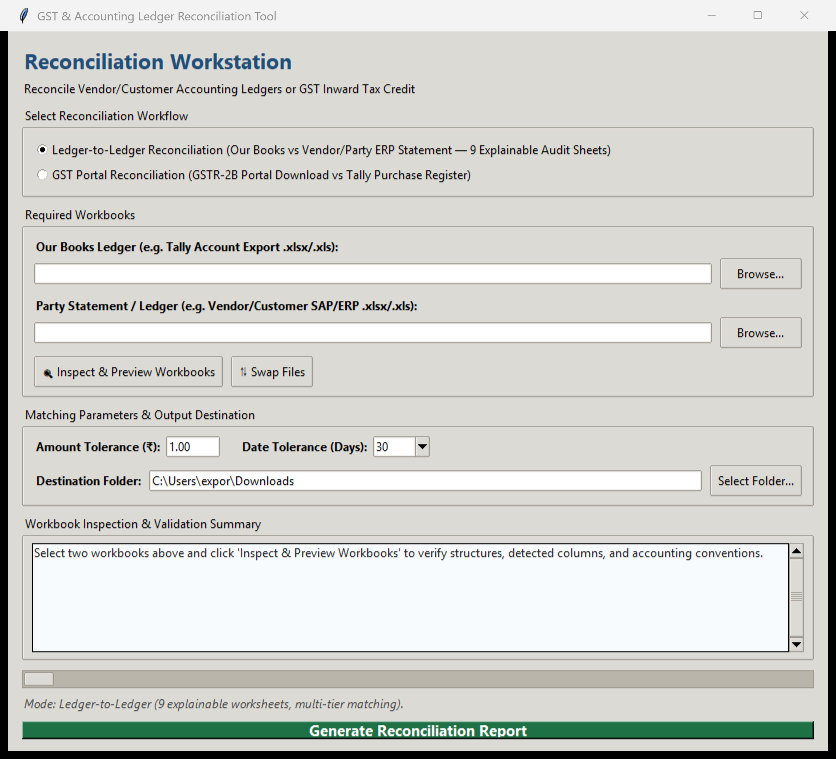
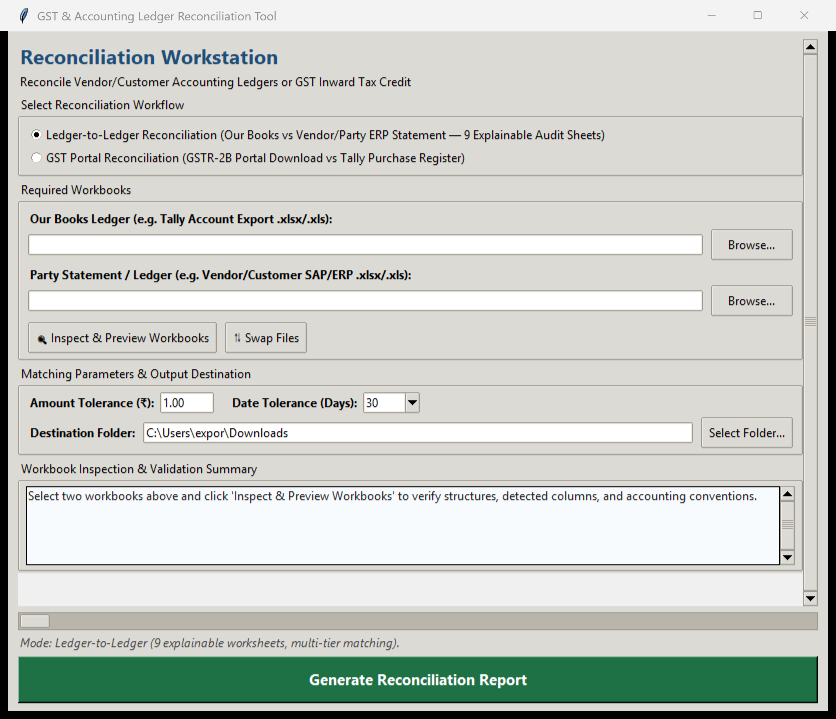
fix: dock action footer for small screens, add SAC launcher scripts and thread-safe queue

diff --git a/src/gst_recon_gui.py b/src/gst_recon_gui.py
@@ -14,6 +14,7 @@ import sys
 import shutil
 import tempfile
 import threading
+import queue
 
 src_dir = os.path.dirname(os.path.abspath(__file__))
 if src_dir not in sys.path:
@@ -84,8 +85,20 @@ class ReconciliationApp:
     def __init__(self, root):
         self.root = root
         self.root.title("GST & Accounting Ledger Reconciliation Tool")
-        self.root.geometry("820x720")
-        self.root.minsize(760, 640)
+
+        # Responsive initial geometry tailored to display dimensions
+        try:
+            sw = self.root.winfo_screenwidth()
+            sh = self.root.winfo_screenheight()
+            init_w = min(840, max(680, sw - 40))
+            init_h = min(700, max(520, sh - 80))
+            x = max(0, (sw - init_w) // 2)
+            y = max(0, (sh - init_h) // 2)
+            self.root.geometry(f"{init_w}x{init_h}+{x}+{y}")
+        except Exception:
+            self.root.geometry("820x660")
+
+        self.root.minsize(680, 480)
 
         # Style configuration
         self.style = ttk.Style()
@@ -102,24 +115,94 @@ class ReconciliationApp:
         self.amount_tolerance = tk.StringVar(value="1.00")
         self.date_tolerance = tk.StringVar(value="30")
         self.is_processing = False
+        self.result_queue = queue.Queue()
 
         self._build_ui()
         self._on_mode_change()
 
     def _build_ui(self):
-        main_frame = ttk.Frame(self.root, padding="14 12 14 12")
+        main_frame = ttk.Frame(self.root, padding="10 8 10 8")
         main_frame.pack(fill=tk.BOTH, expand=True)
+
+        # ---------------------------------------------------------------------
+        # DOCKED ACTION FOOTER (Packed FIRST with side=tk.BOTTOM)
+        # Guarantees the Generate button, progressbar, and status label are ALWAYS
+        # visible and never pushed off-screen on any laptop resolution or scaling.
+        # ---------------------------------------------------------------------
+        action_bar = ttk.Frame(main_frame)
+        action_bar.pack(side=tk.BOTTOM, fill=tk.X, pady=(6, 0))
+
+        self.progressbar = ttk.Progressbar(action_bar, mode="indeterminate")
+        self.progressbar.pack(fill=tk.X, pady=(0, 3))
+
+        self.lbl_status = ttk.Label(
+            action_bar,
+            text="Ready to reconcile.",
+            font=("Segoe UI", 9, "italic"),
+            foreground="#444444"
+        )
+        self.lbl_status.pack(anchor="w", pady=(0, 4))
+
+        self.btn_run = tk.Button(
+            action_bar,
+            text="Generate Reconciliation Report",
+            bg="#1E7145",
+            fg="white",
+            activebackground="#145231",
+            activeforeground="white",
+            font=("Segoe UI", 11, "bold"),
+            relief=tk.RAISED,
+            padx=15,
+            pady=7,
+            cursor="hand2",
+            command=self.generate_report
+        )
+        self.btn_run.pack(fill=tk.X)
+
+        # ---------------------------------------------------------------------
+        # SCROLLABLE CONTENT BODY (Canvas + Vertical Scrollbar)
+        # Allows full scrolling on small laptop displays while action bar is docked.
+        # ---------------------------------------------------------------------
+        canvas_container = ttk.Frame(main_frame)
+        canvas_container.pack(side=tk.TOP, fill=tk.BOTH, expand=True)
+
+        self.canvas = tk.Canvas(canvas_container, highlightthickness=0, borderwidth=0)
+        self.v_scrollbar = ttk.Scrollbar(canvas_container, orient=tk.VERTICAL, command=self.canvas.yview)
+
+        self.content_frame = ttk.Frame(self.canvas)
+        self.content_frame.bind(
+            "<Configure>",
+            lambda e: self.canvas.configure(scrollregion=self.canvas.bbox("all"))
+        )
+
+        self.canvas_window = self.canvas.create_window((0, 0), window=self.content_frame, anchor="nw")
+
+        def _on_canvas_configure(event):
+            self.canvas.itemconfig(self.canvas_window, width=event.width)
+        self.canvas.bind("<Configure>", _on_canvas_configure)
+        self.canvas.configure(yscrollcommand=self.v_scrollbar.set)
+
+        self.canvas.pack(side=tk.LEFT, fill=tk.BOTH, expand=True)
+        self.v_scrollbar.pack(side=tk.RIGHT, fill=tk.Y)
+
+        def _on_mousewheel(event):
+            try:
+                if self.content_frame.winfo_reqheight() > self.canvas.winfo_height():
+                    self.canvas.yview_scroll(int(-1 * (event.delta / 120)), "units")
+            except Exception:
+                pass
+        self.canvas.bind_all("<MouseWheel>", _on_mousewheel)
 
         # ---------------------------------------------------------------------
         # Title Header
         # ---------------------------------------------------------------------
-        header_frame = ttk.Frame(main_frame)
-        header_frame.pack(fill=tk.X, pady=(0, 10))
+        header_frame = ttk.Frame(self.content_frame)
+        header_frame.pack(fill=tk.X, pady=(0, 6))
 
         title_label = ttk.Label(
             header_frame,
             text="Reconciliation Workstation",
-            font=("Segoe UI", 16, "bold"),
+            font=("Segoe UI", 15, "bold"),
             foreground="#1F4E78"
         )
         title_label.pack(anchor="w")
@@ -129,13 +212,13 @@ class ReconciliationApp:
             text="Reconcile Vendor/Customer Accounting Ledgers or GST Inward Tax Credit",
             font=("Segoe UI", 9)
         )
-        subtitle_label.pack(anchor="w", pady=(2, 0))
+        subtitle_label.pack(anchor="w", pady=(1, 0))
 
         # ---------------------------------------------------------------------
         # Mode Selection
         # ---------------------------------------------------------------------
-        mode_box = ttk.LabelFrame(main_frame, text=" Select Reconciliation Workflow ", padding="10 8 10 8")
-        mode_box.pack(fill=tk.X, pady=(0, 10))
+        mode_box = ttk.LabelFrame(self.content_frame, text=" Select Reconciliation Workflow ", padding="8 5 8 5")
+        mode_box.pack(fill=tk.X, pady=(0, 6))
 
         self.r_ledger = ttk.Radiobutton(
             mode_box,
@@ -144,7 +227,7 @@ class ReconciliationApp:
             value="LEDGER",
             command=self._on_mode_change
         )
-        self.r_ledger.pack(anchor="w", pady=2)
+        self.r_ledger.pack(anchor="w", pady=1)
 
         self.r_gstr = ttk.Radiobutton(
             mode_box,
@@ -153,28 +236,28 @@ class ReconciliationApp:
             value="GSTR2B",
             command=self._on_mode_change
         )
-        self.r_gstr.pack(anchor="w", pady=2)
+        self.r_gstr.pack(anchor="w", pady=1)
 
         # ---------------------------------------------------------------------
         # File Inputs Frame
         # ---------------------------------------------------------------------
-        self.input_box = ttk.LabelFrame(main_frame, text=" Required Workbooks ", padding="10 8 10 8")
-        self.input_box.pack(fill=tk.X, pady=(0, 10))
+        self.input_box = ttk.LabelFrame(self.content_frame, text=" Required Workbooks ", padding="8 5 8 5")
+        self.input_box.pack(fill=tk.X, pady=(0, 6))
 
         # File 1
         self.lbl_file1 = ttk.Label(self.input_box, text="File 1:", font=("Segoe UI", 9, "bold"))
-        self.lbl_file1.pack(anchor="w", pady=(1, 2))
+        self.lbl_file1.pack(anchor="w", pady=(1, 1))
         f1_row = ttk.Frame(self.input_box)
-        f1_row.pack(fill=tk.X, pady=(0, 6))
+        f1_row.pack(fill=tk.X, pady=(0, 4))
         self.ent_file1 = ttk.Entry(f1_row, textvariable=self.file1_path)
         self.ent_file1.pack(side=tk.LEFT, fill=tk.X, expand=True, padx=(0, 8))
         ttk.Button(f1_row, text="Browse...", command=self.browse_file1).pack(side=tk.RIGHT)
 
         # File 2
         self.lbl_file2 = ttk.Label(self.input_box, text="File 2:", font=("Segoe UI", 9, "bold"))
-        self.lbl_file2.pack(anchor="w", pady=(1, 2))
+        self.lbl_file2.pack(anchor="w", pady=(1, 1))
         f2_row = ttk.Frame(self.input_box)
-        f2_row.pack(fill=tk.X, pady=(0, 6))
+        f2_row.pack(fill=tk.X, pady=(0, 4))
         self.ent_file2 = ttk.Entry(f2_row, textvariable=self.file2_path)
         self.ent_file2.pack(side=tk.LEFT, fill=tk.X, expand=True, padx=(0, 8))
         ttk.Button(f2_row, text="Browse...", command=self.browse_file2).pack(side=tk.RIGHT)
@@ -190,16 +273,16 @@ class ReconciliationApp:
         # ---------------------------------------------------------------------
         # Parameters Frame (Tolerances & Destination)
         # ---------------------------------------------------------------------
-        param_box = ttk.LabelFrame(main_frame, text=" Matching Parameters & Output Destination ", padding="10 8 10 8")
-        param_box.pack(fill=tk.X, pady=(0, 10))
+        param_box = ttk.LabelFrame(self.content_frame, text=" Matching Parameters & Output Destination ", padding="8 5 8 5")
+        param_box.pack(fill=tk.X, pady=(0, 6))
 
         tol_row = ttk.Frame(param_box)
-        tol_row.pack(fill=tk.X, pady=(0, 6))
+        tol_row.pack(fill=tk.X, pady=(0, 4))
 
         # Amount Tolerance
         ttk.Label(tol_row, text="Amount Tolerance (₹):", font=("Segoe UI", 9, "bold")).pack(side=tk.LEFT, padx=(0, 4))
         self.ent_amt_tol = ttk.Entry(tol_row, textvariable=self.amount_tolerance, width=8)
-        self.ent_amt_tol.pack(side=tk.LEFT, padx=(0, 20))
+        self.ent_amt_tol.pack(side=tk.LEFT, padx=(0, 16))
 
         # Date Tolerance
         ttk.Label(tol_row, text="Date Tolerance (Days):", font=("Segoe UI", 9, "bold")).pack(side=tk.LEFT, padx=(0, 4))
@@ -214,7 +297,7 @@ class ReconciliationApp:
 
         # Output Folder Row
         out_row = ttk.Frame(param_box)
-        out_row.pack(fill=tk.X, pady=(2, 0))
+        out_row.pack(fill=tk.X)
         ttk.Label(out_row, text="Destination Folder:", font=("Segoe UI", 9, "bold")).pack(side=tk.LEFT, padx=(0, 6))
         ttk.Entry(out_row, textvariable=self.output_folder).pack(side=tk.LEFT, fill=tk.X, expand=True, padx=(0, 8))
         ttk.Button(out_row, text="Select Folder...", command=self.browse_output).pack(side=tk.RIGHT)
@@ -222,8 +305,8 @@ class ReconciliationApp:
         # ---------------------------------------------------------------------
         # Inspection & Preview Summary Panel (Phase 8 Guide)
         # ---------------------------------------------------------------------
-        self.preview_box = ttk.LabelFrame(main_frame, text=" Workbook Inspection & Validation Summary ", padding="8 6 8 6")
-        self.preview_box.pack(fill=tk.BOTH, expand=True, pady=(0, 10))
+        self.preview_box = ttk.LabelFrame(self.content_frame, text=" Workbook Inspection & Validation Summary ", padding="6 4 6 4")
+        self.preview_box.pack(fill=tk.BOTH, expand=True, pady=(0, 2))
 
         # Scrollable text widget for rich preview
         preview_container = ttk.Frame(self.preview_box)
@@ -237,7 +320,7 @@ class ReconciliationApp:
             fg="#222222",
             relief=tk.SOLID,
             borderwidth=1,
-            height=7
+            height=5
         )
         self.txt_preview.pack(side=tk.LEFT, fill=tk.BOTH, expand=True)
 
@@ -245,32 +328,6 @@ class ReconciliationApp:
         scrl.pack(side=tk.RIGHT, fill=tk.Y)
         self.txt_preview.config(yscrollcommand=scrl.set)
         self._set_preview_text("Select two workbooks above and click 'Inspect & Preview Workbooks' to verify structures, detected columns, and accounting conventions.")
-
-        # ---------------------------------------------------------------------
-        # Progress Bar & Action Area
-        # ---------------------------------------------------------------------
-        self.progressbar = ttk.Progressbar(main_frame, mode="indeterminate")
-        self.progressbar.pack(fill=tk.X, pady=(0, 6))
-
-        # Status / Feedback Label
-        self.lbl_status = ttk.Label(main_frame, text="Ready to reconcile.", font=("Segoe UI", 9, "italic"), foreground="#444444")
-        self.lbl_status.pack(anchor="w", pady=(0, 8))
-
-        # Run Button
-        self.btn_run = tk.Button(
-            main_frame,
-            text="Generate Reconciliation Report",
-            bg="#1E7145",
-            fg="white",
-            activebackground="#145231",
-            activeforeground="white",
-            font=("Segoe UI", 11, "bold"),
-            relief=tk.RAISED,
-            padx=15,
-            pady=8,
-            command=self.generate_report
-        )
-        self.btn_run.pack(fill=tk.X)
 
     def _set_preview_text(self, text):
         self.txt_preview.config(state=tk.NORMAL)
@@ -477,6 +534,9 @@ class ReconciliationApp:
         self.lbl_status.config(text="Reconciling entries in background thread...")
         self.progressbar.start(10)
 
+        # Start periodic queue polling on main UI thread
+        self.root.after(100, self._poll_result_queue)
+
         mode = self.recon_mode.get()
 
         # Launch background worker
@@ -486,6 +546,23 @@ class ReconciliationApp:
             daemon=True
         )
         worker.start()
+
+    def _poll_result_queue(self):
+        """Check for completed reconciliation results from background worker."""
+        try:
+            while True:
+                msg_type, args = self.result_queue.get_nowait()
+                if msg_type == "SUCCESS":
+                    summary_msg, output_path = args
+                    self._on_recon_success(summary_msg, output_path)
+                    return
+                elif msg_type == "ERROR":
+                    title, message = args
+                    self._on_recon_error(title, message)
+                    return
+        except queue.Empty:
+            if self.is_processing:
+                self.root.after(100, self._poll_result_queue)
 
     def _run_recon_thread(self, f1, f2, out_dir, mode, amt_tol, date_tol):
         """Worker thread for heavy reconciliation computation."""
@@ -502,11 +579,11 @@ class ReconciliationApp:
                 self._execute_gstr_recon(f1_ready, f2_ready, out_dir, timestamp)
 
         except (reconcile.ReconciliationError, ledger_recon.LedgerReconciliationError) as e:
-            self.root.after(0, self._on_recon_error, "Reconciliation Validation Notice", str(e))
+            self.result_queue.put(("ERROR", ("Reconciliation Validation Notice", str(e))))
         except Exception as e:
-            self.root.after(0, self._on_recon_error, "Unexpected Error", f"An unexpected error occurred:\n\n{str(e)}")
+            self.result_queue.put(("ERROR", ("Unexpected Error", f"An unexpected error occurred:\n\n{str(e)}")))
         except BaseException as be:
-            self.root.after(0, self._on_recon_error, "Critical System Halt", str(be))
+            self.result_queue.put(("ERROR", ("Critical System Halt", str(be))))
         finally:
             cleanup_temp_files(temp_tracker)
 
@@ -555,7 +632,7 @@ class ReconciliationApp:
             f"Closing Balance Variance: ₹{stats['closing_diff']:,.2f}\n"
             f"Overall Status: {stats['overall_status']}"
         )
-        self.root.after(0, self._on_recon_success, summary_msg, output_path)
+        self.result_queue.put(("SUCCESS", (summary_msg, output_path)))
 
     def _execute_gstr_recon(self, f1_path, f2_path, out_dir, timestamp):
         """Execute GSTR-2B Portal vs Tally Register reconciliation."""
@@ -584,7 +661,7 @@ class ReconciliationApp:
             f"• Tally Vouchers: {len(reg)}\n"
             f"• Matched Invoices: {result.get('matched_count', 0)}"
         )
-        self.root.after(0, self._on_recon_success, summary_msg, output_path)
+        self.result_queue.put(("SUCCESS", (summary_msg, output_path)))
 
     def _on_recon_success(self, summary_msg, output_path):
         """Handle successful reconciliation completion on main UI thread."""
@@ -607,7 +684,25 @@ class ReconciliationApp:
         messagebox.showerror(title, message)
 
 
+def enable_windows_dpi():
+    """Enable Per-Monitor DPI awareness on Windows to prevent blurry scaling."""
+    try:
+        import ctypes
+        ctypes.windll.user32.SetProcessDpiAwarenessContext(-4)  # DPI_AWARENESS_CONTEXT_PER_MONITOR_AWARE_V2
+    except Exception:
+        try:
+            import ctypes
+            ctypes.windll.shcore.SetProcessDpiAwareness(1)
+        except Exception:
+            try:
+                import ctypes
+                ctypes.windll.user32.SetProcessDPIAware()
+            except Exception:
+                pass
+
+
 def main():
+    enable_windows_dpi()
     root = tk.Tk()
     app = ReconciliationApp(root)
     root.mainloop()
